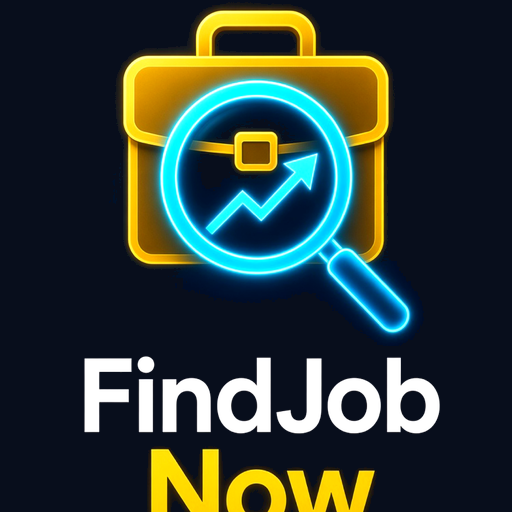
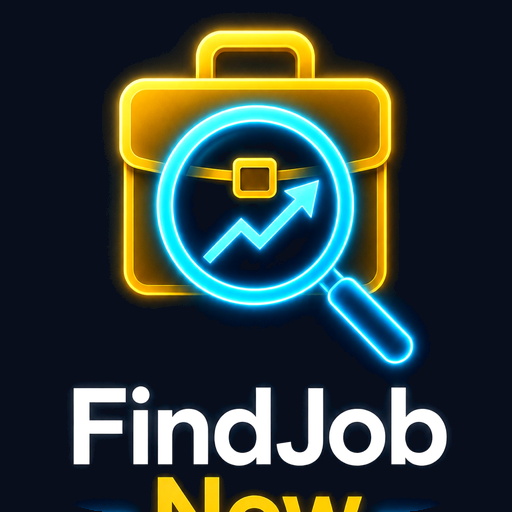
Add files via upload

diff --git a/index.html b/index.html
@@ -19,7 +19,7 @@
 :root,[data-theme="dark"]{--bg:#07090D;--cd:#0B1A2E;--cd2:#12243a;--tx:#F3EFE6;--mu:#8B97A8;--ac:#D4B36A;--bd:#2A3D55;--ok:#7BC47F;--er:#FF8A8A;--btn:#D4B36A;--btnText:#0E1218;--input:#0a1422;--gold:#D4B36A;--radius:16px;--shadow:0 4px 24px rgba(0,0,0,.35)}
 [data-theme="light"]{--bg:#F3EFE6;--cd:#fff;--cd2:#f7f3ea;--tx:#0E1218;--mu:#4a5568;--ac:#8a6d2f;--bd:#d4c4a0;--ok:#2e7d32;--er:#c62828;--btn:#0B1A2E;--btnText:#F3EFE6;--input:#fff;--gold:#D4B36A;--shadow:0 4px 20px rgba(11,26,46,.08)}
 *{box-sizing:border-box;-webkit-tap-highlight-color:transparent}html,body{margin:0;padding:0}
-body{background:var(--bg);color:var(--tx);font:17px/1.5 system-ui,-apple-system,BlinkMacSystemFont,"Segoe UI",Roboto,Arial,sans-serif;padding:env(safe-area-inset-top,0) 0 calc(72px + env(safe-area-inset-bottom,0));min-height:100dvh}
+body{background:var(--bg);color:var(--tx);font:17px/1.5 system-ui,-apple-system,BlinkMacSystemFont,"Segoe UI",Roboto,Arial,sans-serif;padding:env(safe-area-inset-top,0) 0 calc(110px + env(safe-area-inset-bottom,0));min-height:100dvh}
 button,input,select,textarea{font:inherit;color:inherit}a{color:var(--ac)}:focus-visible{outline:2px solid var(--gold);outline-offset:2px}
 header{position:sticky;top:0;z-index:40;display:flex;align-items:center;justify-content:space-between;gap:8px;padding:10px 14px;background:color-mix(in srgb,var(--bg) 92%,transparent);backdrop-filter:blur(12px);border-bottom:1px solid var(--bd)}
 .brand{display:flex;align-items:center;gap:10px;font-weight:800;font-size:17px;letter-spacing:-.02em}
@@ -102,6 +102,9 @@ details.entry-path>summary::-webkit-details-marker{display:none}
 .file-btn input[type=file]{position:absolute;inset:0;opacity:0;cursor:pointer}
 #printArea,#rirekishoArea{display:none}
 @media print{body *{visibility:hidden}#printArea,#printArea *,#rirekishoArea,#rirekishoArea *{visibility:visible}#printArea,#rirekishoArea{display:block!important;position:absolute;left:0;top:0;width:100%;background:#fff;color:#000;padding:20mm}}
+
+.site-copy{text-align:center;padding:24px 16px 12px;font-size:12px;color:var(--mu);line-height:1.55}
+.site-copy strong{color:var(--tx);font-weight:600}
 </style>
 </head>
 <body>
@@ -109,16 +112,13 @@ details.entry-path>summary::-webkit-details-marker{display:none}
   <div class="brand">
     <svg width="28" height="28" viewBox="0 0 32 32" fill="none" aria-hidden="true">
   <rect width="32" height="32" rx="8" fill="#080E1C"/>
-  <!-- gold briefcase -->
-  <path d="M10 12.5h12a1.5 1.5 0 0 1 1.5 1.5v7a1.5 1.5 0 0 1-1.5 1.5H10A1.5 1.5 0 0 1 8.5 21v-7A1.5 1.5 0 0 1 10 12.5z" fill="#E8B84A" stroke="#FFD666" stroke-width="0.6"/>
-  <path d="M13 12.5V11a2 2 0 0 1 2-2h2a2 2 0 0 1 2 2v1.5" stroke="#E8B84A" stroke-width="1.4" fill="none"/>
-  <rect x="14.5" y="16.5" width="3" height="2.2" rx="0.4" fill="#E8B84A"/>
-  <!-- cyan magnifying glass -->
-  <circle cx="18.5" cy="18" r="5.2" stroke="#00E8F5" stroke-width="1.8" fill="rgba(0,200,230,0.12)"/>
-  <line x1="22.2" y1="21.8" x2="26" y2="25.5" stroke="#00E8F5" stroke-width="2" stroke-linecap="round"/>
-  <!-- growth arrow inside glass -->
-  <path d="M16 19.5l1.8-2 1.2 1.2 2.2-2.8" stroke="#00E8F5" stroke-width="1.1" stroke-linecap="round" stroke-linejoin="round" fill="none"/>
-  <path d="M20.5 15.2h1.8v1.8" stroke="#00E8F5" stroke-width="1.1" stroke-linecap="round"/>
+  <path d="M9.5 12h13a1.5 1.5 0 0 1 1.5 1.5v7.5a1.5 1.5 0 0 1-1.5 1.5h-13A1.5 1.5 0 0 1 8 21v-7.5A1.5 1.5 0 0 1 9.5 12z" fill="#E8B84A" stroke="#FFD666" stroke-width="0.7"/>
+  <path d="M13 12V10.5a2 2 0 0 1 2-2h2a2 2 0 0 1 2 2V12" stroke="#E8B84A" stroke-width="1.5" fill="none"/>
+  <rect x="14.2" y="16.2" width="3.6" height="2.4" rx="0.4" fill="#E8B84A"/>
+  <circle cx="18.5" cy="18" r="5.4" stroke="#00E8F5" stroke-width="1.9" fill="rgba(0,200,230,0.1)"/>
+  <line x1="22.4" y1="22" x2="26.2" y2="25.7" stroke="#00E8F5" stroke-width="2.1" stroke-linecap="round"/>
+  <path d="M15.8 19.6l1.9-2.1 1.3 1.3 2.3-2.9" stroke="#00E8F5" stroke-width="1.15" stroke-linecap="round" stroke-linejoin="round" fill="none"/>
+  <path d="M20.6 15.2h1.9v1.9" stroke="#00E8F5" stroke-width="1.15" stroke-linecap="round"/>
 </svg>
     <span>FindJob Now</span>
   </div>
@@ -286,6 +286,12 @@ details.entry-path>summary::-webkit-details-marker{display:none}
   </div>
 </section>
 </main>
+
+<div class="site-copy" id="siteCopy">
+  <div>© 2026 Rafat Kotaki. All rights reserved.</div>
+  <div><strong>FindJobNow</strong> · V1.0.0</div>
+</div>
+
 <nav class="footer-nav" id="footerNav">
   <button type="button" class="btn btn-secondary" id="btnBack" data-i18n="back">Back</button>
   <button type="button" class="btn btn-primary" id="btnNext" data-i18n="next">Next</button>
